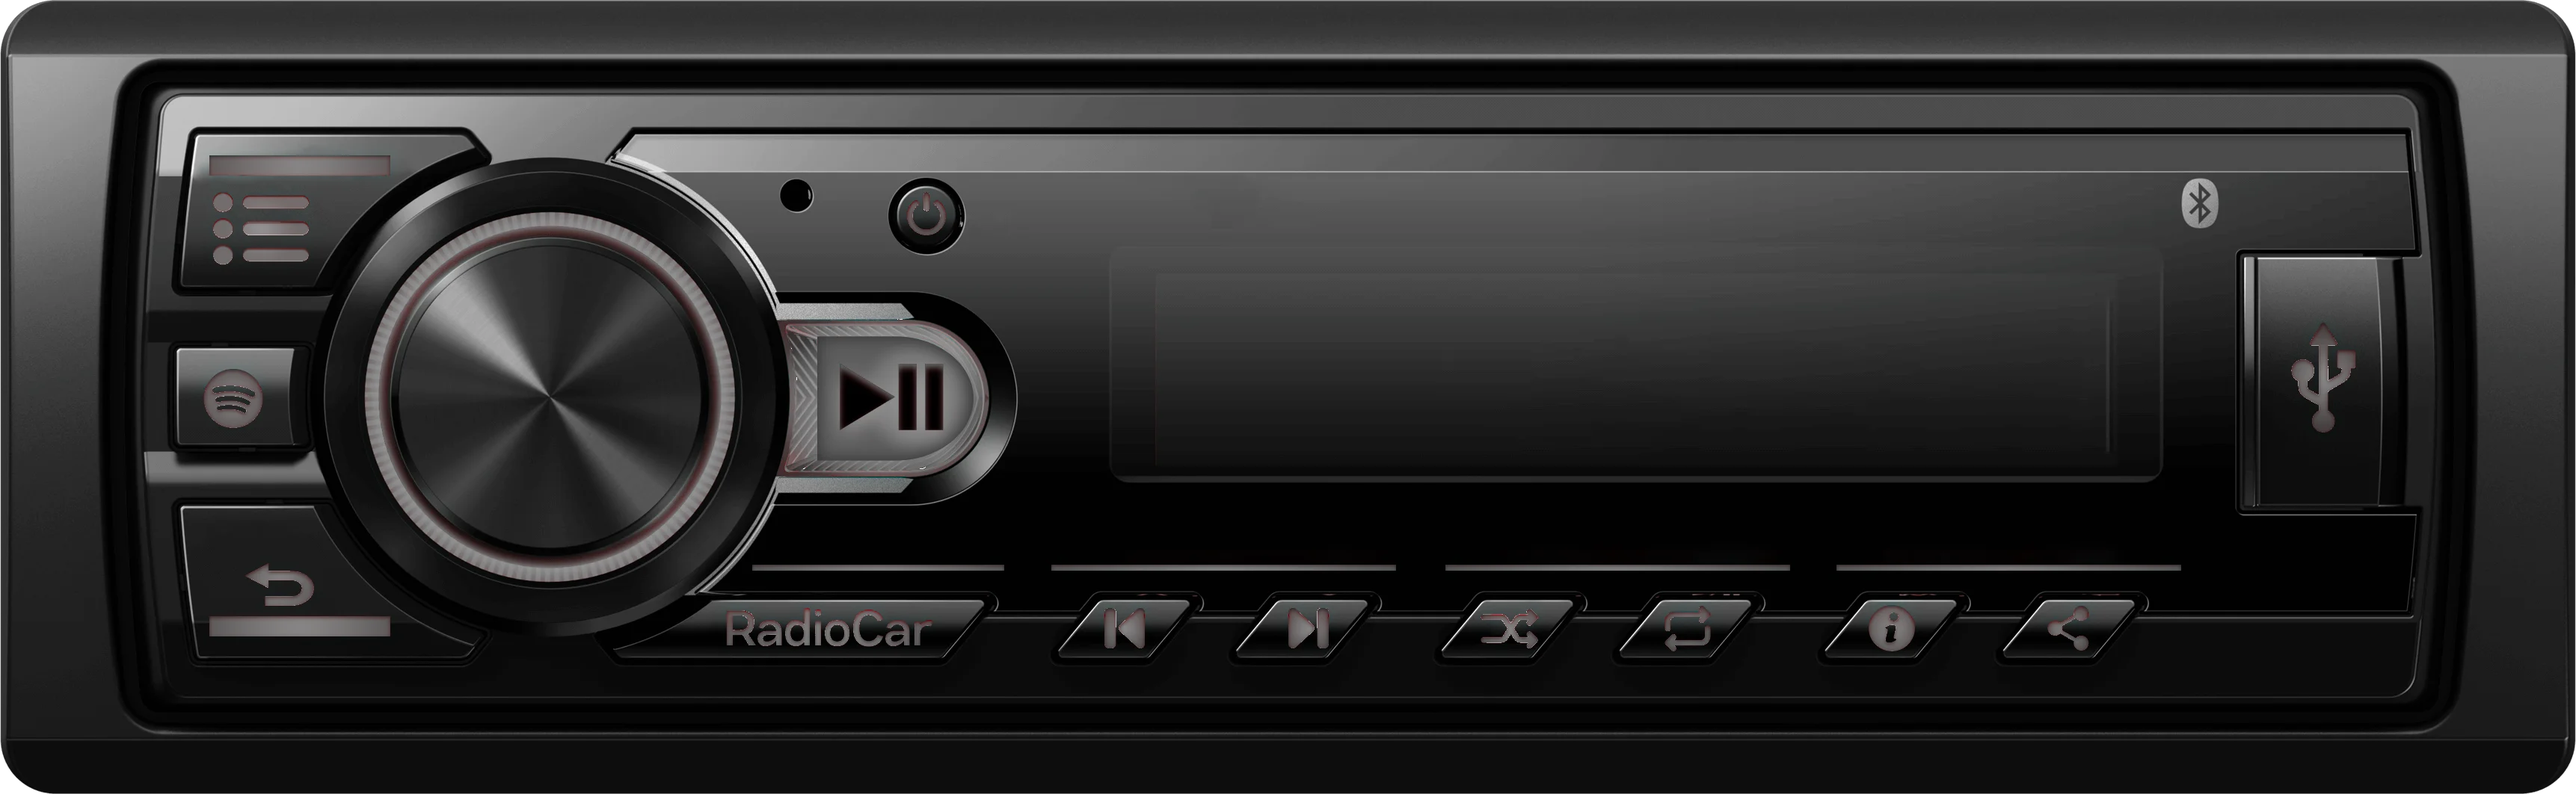
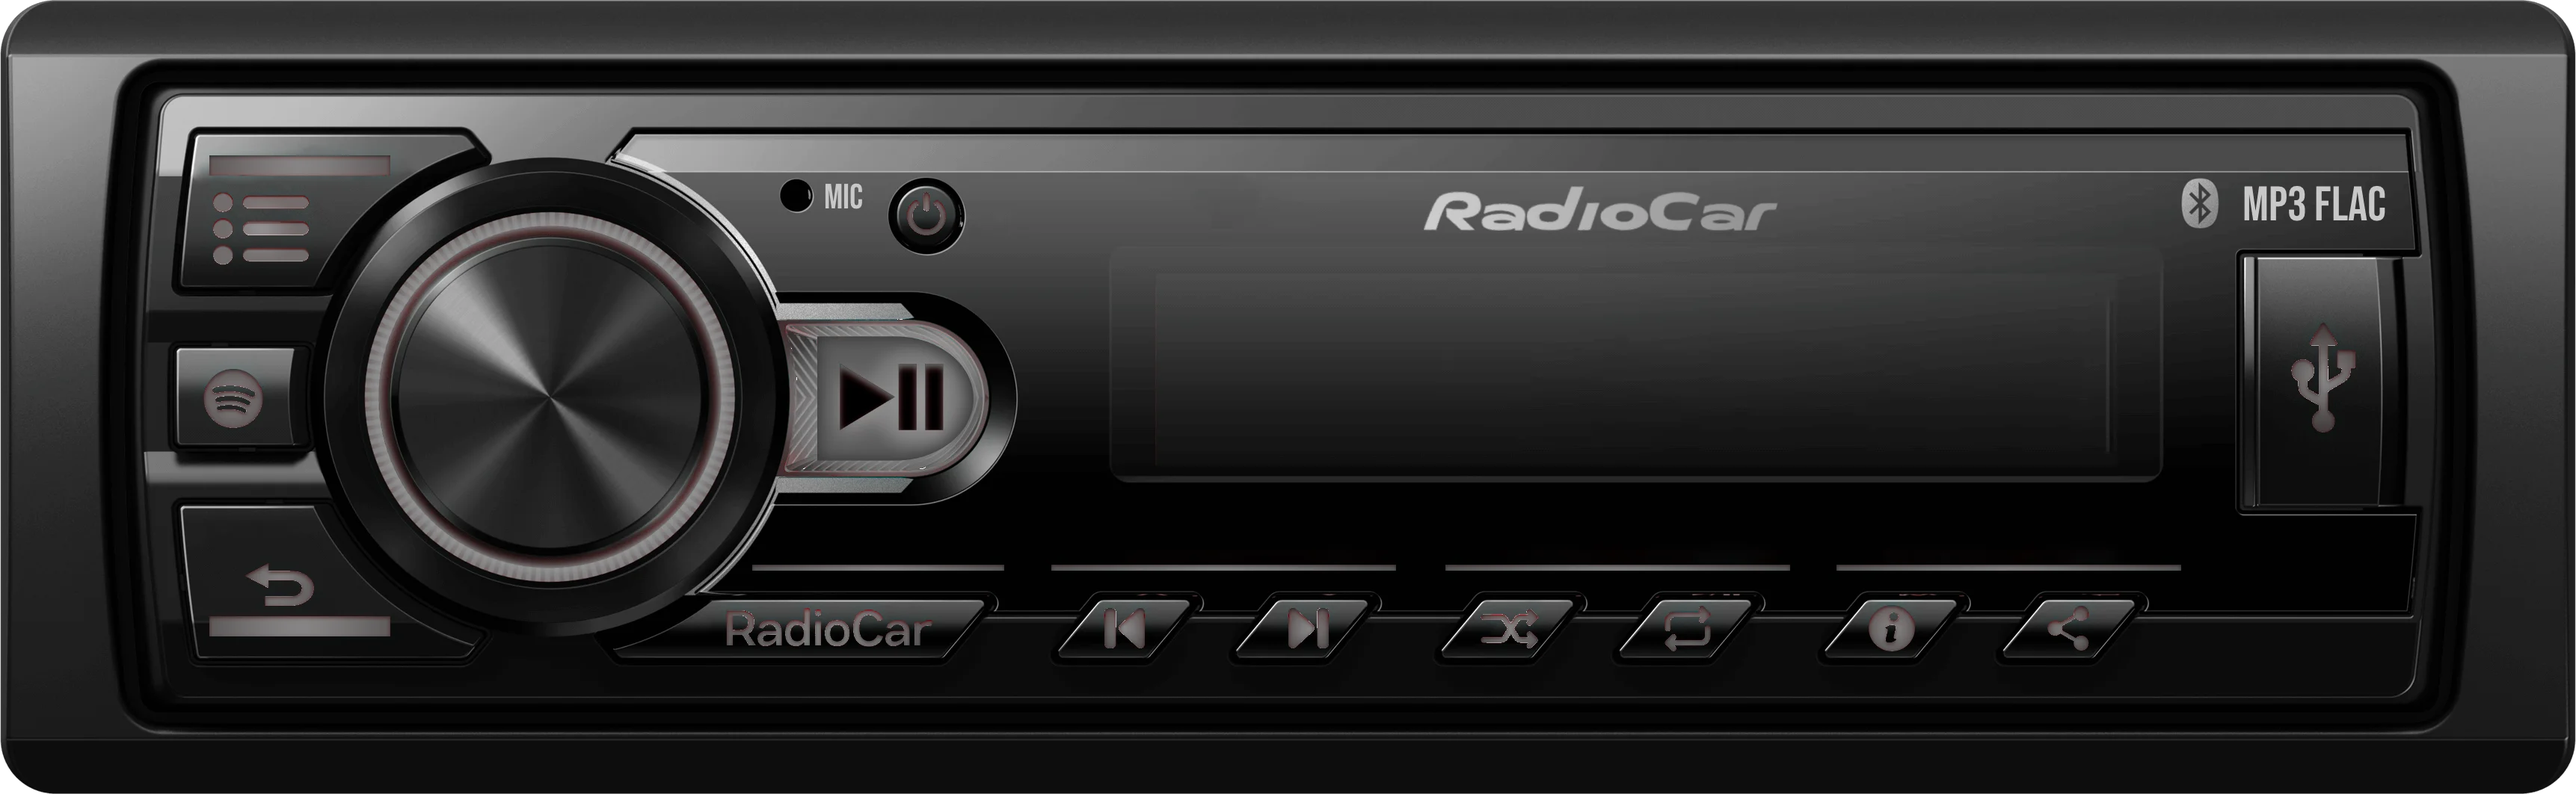
Adiciona equalizador com microfone

Changed region(s): [[0.528, 0.2484, 0.6833, 0.3104], [0.8697, 0.2173, 0.9318, 0.2794], [0.3106, 0.2173, 0.3417, 0.2794]]

diff --git a/index.html b/index.html
@@ -34,6 +34,8 @@
   </button>
   <div class="settings-popup" role="dialog" aria-label="Configurações de aparência">
     <button class="settings-theme" type="button" onclick="toggleBg()"><strong id="settingsTheme">DARK</strong></button>
+    <button class="settings-pip" id="pipButton" type="button" onclick="togglePlayerPip()">PIP</button>
+    <button class="settings-mic" id="micEqButton" type="button" onclick="toggleMicEq()">MIC EQ</button>
     <div class="settings-scale">
       <span>SIZE</span>
       <div class="scale-controls">
@@ -68,8 +70,11 @@
         <source src="assets/animação.MP4" type="video/mp4">
       </video>
       <video class="lcd-video" muted loop playsinline preload="auto" aria-hidden="true">
-        <source src="assets/anima%C3%A7%C3%A3o2.mp4" type="video/mp4">
+        <source src="assets/animação2.mp4" type="video/mp4">
       </video>
+      <div class="lcd-spectrum" aria-hidden="true">
+        <span></span><span></span><span></span><span></span><span></span><span></span><span></span><span></span><span></span><span></span><span></span><span></span><span></span><span></span><span></span><span></span><span></span><span></span><span></span><span></span>
+      </div>
       <div class="lcd-inner">
         <div class="r1">
           <div class="r1-left">
@@ -187,6 +192,35 @@ function openSpotifyControl(){if(!token){connectSpotify();return;}toggleLibrary(
 let playerScale=Number(localStorage.getItem("radiocar-scale"))||1;
 function applyPlayerScale(){document.documentElement.style.setProperty("--player-scale",playerScale);document.getElementById("scaleValue").textContent=`${Math.round(playerScale*100)}%`;}
 function adjustPlayerScale(delta){playerScale=Math.max(.75,Math.min(1.15,Math.round((playerScale+delta)*100)/100));localStorage.setItem("radiocar-scale",playerScale);applyPlayerScale();}
+let pipWindow=null,pipSyncTimer=null;
+function syncPlayerPip(){
+  if(!pipWindow||pipWindow.closed){clearInterval(pipSyncTimer);pipSyncTimer=null;pipWindow=null;document.getElementById("pipButton").textContent="PIP";return;}
+  const host=pipWindow.document.getElementById("pipHost");if(!host)return;
+  pipWindow.document.body.dataset.accent=document.body.dataset.accent||"red";
+  pipWindow.document.body.classList.toggle("light",document.body.classList.contains("light"));
+  const clone=document.getElementById("rw").cloneNode(true);clone.id="rw-pip";
+  clone.querySelectorAll("[onclick]").forEach(el=>el.removeAttribute("onclick"));
+  const actions={".o-play":togglePlay,".o-power":togglePower,".o-menu":toggleLibraryFromList,".o-spt":openSpotifyControl,".o-back":()=>{},".o-b1":prevTrack,".o-b2":nextTrack,".o-b3":toggleShuffle,".o-b4":toggleRepeat,".o-b5":showInfo,".o-b6":shareTrack,".o-usb":showUsbInfo,".o-brand":toggleScreenAnimation};
+  Object.entries(actions).forEach(([selector,action])=>clone.querySelector(selector)?.addEventListener("click",event=>{event.preventDefault();action();setTimeout(syncPlayerPip,80);}));
+  const knob=clone.querySelector(".o-knob"),range=clone.querySelector("#volRange");let drag=null;
+  knob?.addEventListener("pointerdown",event=>{drag={id:event.pointerId,y:event.clientY,value:+range.value};knob.setPointerCapture(event.pointerId);});
+  knob?.addEventListener("pointermove",event=>{if(!drag||drag.id!==event.pointerId)return;const value=Math.max(0,Math.min(100,drag.value-(event.clientY-drag.y)*1.1));onVol(value);setTimeout(syncPlayerPip,20);});
+  ["pointerup","pointercancel"].forEach(type=>knob?.addEventListener(type,()=>drag=null));
+  host.replaceChildren(clone);
+}
+async function togglePlayerPip(){
+  if(pipWindow&&!pipWindow.closed){pipWindow.close();return;}
+  if(!("documentPictureInPicture" in window)){showShareStatus("PIP INDISPONIVEL NESTE NAVEGADOR");return;}
+  try{
+    pipWindow=await window.documentPictureInPicture.requestWindow({width:860,height:265});
+    pipWindow.document.head.innerHTML='<meta charset="UTF-8"><link rel="stylesheet" href="style.css"><style>html,body{margin:0!important;min-height:0!important;background:#000!important;overflow:hidden!important}.scene{padding:0!important;gap:0!important}.settings-menu,.pl-panel{display:none!important}.radio-wrapper{width:100vw!important;height:calc(100vw * 265 / 860)!important;max-height:100vh!important;transform:none!important}.radio-wrapper::before{display:none!important}</style>';
+    pipWindow.document.body.innerHTML='<div class="scene"><div id="pipHost"></div></div>';
+    pipWindow.document.body.dataset.accent=document.body.dataset.accent||"red";
+    pipWindow.document.body.classList.toggle("light",document.body.classList.contains("light"));
+    pipWindow.addEventListener("pagehide",()=>{clearInterval(pipSyncTimer);pipSyncTimer=null;pipWindow=null;document.getElementById("pipButton").textContent="PIP";});
+    document.getElementById("pipButton").textContent="FECHAR PIP";syncPlayerPip();pipSyncTimer=setInterval(syncPlayerPip,700);
+  }catch(error){showShareStatus("NAO FOI POSSIVEL ABRIR O PIP");}
+}
 function setAccent(color){
   document.body.dataset.accent=color;
   localStorage.setItem("radiocar-accent",color);
@@ -198,22 +232,114 @@ setAccent(localStorage.getItem("radiocar-accent")||"red");
 applyPlayerScale();
 applyTheme();
 
-let nextScreenAnimation=0;
+let nextScreenVisual=0, spectrumTimer=null, spectrumLevels=[], spectrumPeaks=[];
+let micStream=null,micContext=null,micAnalyser=null,micData=null,micFrameId=null;
+function resetSpectrum(){
+  const count=document.querySelectorAll(".lcd-spectrum span").length;
+  spectrumLevels=Array.from({length:count},()=>.2+Math.random()*.18);
+  spectrumPeaks=Array.from({length:3},()=>({position:Math.random()*(count-1),velocity:(Math.random()-.5)*.24,intensity:.6+Math.random()*.4}));
+}
+function setSpectrumFrame(){
+  const bars=[...document.querySelectorAll(".lcd-spectrum span")],count=bars.length;
+  if(!count)return;
+  if(spectrumLevels.length!==count||spectrumPeaks.length!==3)resetSpectrum();
+  spectrumPeaks.forEach(peak=>{
+    peak.velocity=Math.max(-.34,Math.min(.34,peak.velocity+(Math.random()-.5)*.075));
+    peak.position+=peak.velocity;
+    if(peak.position<0||peak.position>count-1){peak.velocity*=-1;peak.position=Math.max(0,Math.min(count-1,peak.position));}
+    peak.intensity=Math.max(.56,Math.min(1,peak.intensity+(Math.random()-.5)*.13));
+  });
+  const targets=Array.from({length:count},(_,index)=>{
+    const peakLevel=Math.max(...spectrumPeaks.map(peak=>Math.max(0,peak.intensity*(1-Math.abs(index-peak.position)/(2.1+peak.intensity*2.4)))));
+    return Math.min(1,.11+peakLevel*.89);
+  });
+  targets[Math.round(spectrumPeaks[0].position)]=1;
+  bars.forEach((bar,index)=>{
+    const nearby=(targets[Math.max(0,index-1)]+targets[index]+targets[Math.min(count-1,index+1)])/3;
+    const desired=targets[index]*.7+nearby*.3;
+    spectrumLevels[index]+=(desired-spectrumLevels[index])*.42;
+    bar.style.height=`${Math.round(spectrumLevels[index]*100)}%`;
+  });
+}
+function renderMicSpectrum(){
+  if(!micAnalyser||!micData)return;
+  const bars=[...document.querySelectorAll(".lcd-spectrum span")],count=bars.length;
+  if(!count)return;
+  if(spectrumLevels.length!==count)resetSpectrum();
+  micAnalyser.getByteFrequencyData(micData);
+  const maxBin=Math.min(micData.length-1,112);
+  bars.forEach((bar,index)=>{
+    const start=Math.floor(2+(index/count)*(maxBin-2));
+    const end=Math.max(start+1,Math.floor(2+((index+1)/count)*(maxBin-2)));
+    let total=0;for(let bin=start;bin<=end;bin++)total+=micData[bin];
+    const raw=Math.min(1,(total/(end-start+1)/255)*1.6);
+    const previous=spectrumLevels[Math.max(0,index-1)]||0;
+    const next=spectrumLevels[Math.min(count-1,index+1)]||0;
+    const target=Math.max(.06,raw*.78+(previous+next)*.11);
+    spectrumLevels[index]+=(target-spectrumLevels[index])*.35;
+    bar.style.height=`${Math.round(spectrumLevels[index]*100)}%`;
+  });
+  micFrameId=requestAnimationFrame(renderMicSpectrum);
+}
+function startMicSpectrum(){cancelAnimationFrame(micFrameId);resetSpectrum();renderMicSpectrum();}
+function startSpectrum(){clearInterval(spectrumTimer);if(micAnalyser){startMicSpectrum();return;}resetSpectrum();setSpectrumFrame();spectrumTimer=setInterval(setSpectrumFrame,150);}
+function stopSpectrum(){clearInterval(spectrumTimer);spectrumTimer=null;cancelAnimationFrame(micFrameId);micFrameId=null;}
+async function toggleMicEq(){
+  const button=document.getElementById("micEqButton");
+  if(micStream){
+    stopMicEq();
+    showShareStatus("MIC EQ DESLIGADO");
+    return;
+  }
+  if(!navigator.mediaDevices?.getUserMedia){showShareStatus("MICROFONE INDISPONIVEL NESTE NAVEGADOR");return;}
+  try{
+    micStream=await navigator.mediaDevices.getUserMedia({audio:{echoCancellation:false,noiseSuppression:false,autoGainControl:false}});
+    micContext=new (window.AudioContext||window.webkitAudioContext)();
+    await micContext.resume();
+    micAnalyser=micContext.createAnalyser();micAnalyser.fftSize=256;micAnalyser.smoothingTimeConstant=.72;
+    micData=new Uint8Array(micAnalyser.frequencyBinCount);
+    micContext.createMediaStreamSource(micStream).connect(micAnalyser);
+    button.textContent="MIC EQ ON";
+    showShareStatus("MIC EQ ATIVO");
+    if(document.querySelector(".lcd")?.classList.contains("show-spectrum"))startSpectrum();
+  }catch(error){
+    stopMicEq();
+    showShareStatus("PERMISSAO DO MICROFONE NEGADA");
+  }
+}
+function stopMicEq(){
+  cancelAnimationFrame(micFrameId);micFrameId=null;
+  micStream?.getTracks().forEach(track=>track.stop());micStream=null;
+  micAnalyser?.disconnect();micAnalyser=null;micData=null;
+  micContext?.close();micContext=null;
+  document.getElementById("micEqButton").textContent="MIC EQ";
+  if(document.querySelector(".lcd")?.classList.contains("show-spectrum"))startSpectrum();
+}
 function stopScreenAnimation(){
   const screen=document.querySelector(".lcd"),videos=[...document.querySelectorAll(".lcd-video")];
   if(!screen)return;
-  screen.classList.remove("show-animation");
+  screen.classList.remove("show-animation","show-spectrum");
   videos.forEach(video=>{video.pause();video.currentTime=0;video.classList.remove("is-active");});
+  stopSpectrum();
+  nextScreenVisual=0;
 }
 function toggleScreenAnimation(){
   const screen=document.querySelector(".lcd"),videos=[...document.querySelectorAll(".lcd-video")];
-  if(!screen||!videos.length)return;
-  if(screen.classList.contains("show-animation")){stopScreenAnimation();return;}
-  const video=videos[nextScreenAnimation%videos.length];
-  nextScreenAnimation=(nextScreenAnimation+1)%videos.length;
-  videos.forEach(item=>{item.pause();item.currentTime=0;item.classList.toggle("is-active",item===video);});
-  screen.classList.add("show-animation");
-  video.play().catch(()=>{});
+  if(!screen)return;
+  const mode=nextScreenVisual%(videos.length+2);
+  nextScreenVisual=(nextScreenVisual+1)%(videos.length+2);
+  screen.classList.remove("show-animation","show-spectrum");
+  videos.forEach(item=>{item.pause();item.currentTime=0;item.classList.remove("is-active");});
+  stopSpectrum();
+  if(mode<videos.length){
+    const video=videos[mode];
+    video.classList.add("is-active");
+    screen.classList.add("show-animation");
+    video.play().catch(()=>{});
+  }else if(mode===videos.length){
+    screen.classList.add("show-spectrum");
+    startSpectrum();
+  }
 }
 
 // Knob rotation: 0-100 → -135° to +135°
@@ -398,9 +524,10 @@ async function playTrack(uri,idx){
     showAuthError("");
   }
 }
-function setDisp(title,artist,p,d){lastDisplay={title,artist,position:p,duration:d};if("mediaSession" in navigator&&window.MediaMetadata&&title!=="- - - - - - - -")navigator.mediaSession.metadata=new MediaMetadata({title,artist,album:"RadioCar"});if(screenMode!=="track")return;const el=document.getElementById("lcdTitle"),artistLine=document.getElementById("lcdArtist"),isTrack=title!=="- - - - - - - -";const marquee=isTrack?`${title}     -     ${artist}`:title;el.textContent=isTrack?marquee+"       "+marquee:marquee;el.className="title"+(isTrack?" scroll":"");artistLine.textContent=isTrack?"":artist.toUpperCase();document.getElementById("tCur").textContent=ms2t(p);document.getElementById("tTot").textContent=ms2t(d);dur=d;pos=p;updProg();}
+function lcdText(value){return String(value??"").normalize("NFD").replace(/[\u0300-\u036f]/g,"");}
+function setDisp(title,artist,p,d){lastDisplay={title,artist,position:p,duration:d};if("mediaSession" in navigator&&window.MediaMetadata&&title!=="- - - - - - - -")navigator.mediaSession.metadata=new MediaMetadata({title,artist,album:"RadioCar"});if(screenMode!=="track")return;const el=document.getElementById("lcdTitle"),artistLine=document.getElementById("lcdArtist"),isTrack=title!=="- - - - - - - -",lcdTitle=lcdText(title),lcdArtist=lcdText(artist);const marquee=isTrack?`${lcdTitle}     -     ${lcdArtist}`:lcdTitle;el.textContent=isTrack?marquee+"       "+marquee:marquee;el.className="title"+(isTrack?" scroll":"");artistLine.textContent=isTrack?"":lcdArtist.toUpperCase();document.getElementById("tCur").textContent=ms2t(p);document.getElementById("tTot").textContent=ms2t(d);dur=d;pos=p;updProg();}
 function updProg(){if(!dur)return;document.getElementById("progFill").style.width=(pos/dur*100)+"%";}
-function setStatus(on,txt){document.getElementById("led").className="led"+(on?"":" off");if("mediaSession" in navigator)navigator.mediaSession.playbackState=on?"playing":"paused";if(screenMode==="track")document.getElementById("lcdLbl").textContent=txt;isPlaying=on;}
+function setStatus(on,txt){document.getElementById("led").className="led"+(on?"":" off");document.querySelector(".lcd")?.classList.toggle("is-playing",Boolean(on));if("mediaSession" in navigator)navigator.mediaSession.playbackState=on?"playing":"paused";if(screenMode==="track")document.getElementById("lcdLbl").textContent=txt;isPlaying=on;}
 function updIco(){const sh=document.getElementById("iShuffle"),rp=document.getElementById("iRepeat");sh.className="ico lcd-mode-icon"+(shuffle?" on":"");rp.className="ico lcd-mode-icon"+(repeat?" on":"");sh.setAttribute("aria-label",shuffle?"Shuffle ativado":"Shuffle desativado");rp.setAttribute("aria-label",repeat?"Repetição ativada":"Repetição desativada");}
 function hiTrack(uri){const found=tracks.findIndex(track=>track.uri===uri);if(found>=0)activeTrackIndex=found;document.querySelectorAll(".trow").forEach(el=>el.classList.toggle("on",el.dataset.uri===uri));}
 function checkTrackCompletion(paused,current,duration){
@@ -409,7 +536,7 @@ function checkTrackCompletion(paused,current,duration){
   setTimeout(async()=>{try{if(tracks.length&&activeTrackIndex>=0){let next=shuffle?Math.floor(Math.random()*tracks.length):(activeTrackIndex+1)%tracks.length;if(tracks.length>1&&next===activeTrackIndex)next=(next+1)%tracks.length;await playTrack(tracks[next].uri,next);}else if(player){await player.nextTrack();}else{await api("/me/player/next",{method:"POST"});}}finally{setTimeout(()=>autoAdvancePending=false,900);}},220);
 }
 async function getState(){if(!token)return null;const r=await api("/me/player");if(!r||r.status===204||!r.ok)return null;return r.json();}
-function startPoll(){clearInterval(poll);poll=setInterval(async()=>{if(player){if(isPlaying){pos+=1000;updProg();document.getElementById("tCur").textContent=ms2t(pos);}return;}const s=await getState();if(!s||!s.item)return;isPlaying=s.is_playing;dur=s.item.duration_ms;pos=s.progress_ms;setDisp(s.item.name,s.item.artists.map(a=>a.name).join(" / "),s.progress_ms,s.item.duration_ms);setStatus(s.is_playing,s.is_playing?"PLAYING":"PAUSE");hiTrack(s.item.uri);shuffle=s.shuffle_state;updIco();checkTrackCompletion(!s.is_playing,s.progress_ms,s.item.duration_ms);if(isPlaying)pos+=1000;},1000);}
+function startPoll(){clearInterval(poll);poll=setInterval(async()=>{if(player){if(isPlaying){pos+=1000;if(!plId&&dur&&pos>=dur){pos=dur;updProg();document.getElementById("tCur").textContent=ms2t(pos);checkTrackCompletion(true,dur,dur);return;}updProg();document.getElementById("tCur").textContent=ms2t(pos);}return;}const s=await getState();if(!s||!s.item)return;isPlaying=s.is_playing;dur=s.item.duration_ms;pos=s.progress_ms;setDisp(s.item.name,s.item.artists.map(a=>a.name).join(" / "),s.progress_ms,s.item.duration_ms);setStatus(s.is_playing,s.is_playing?"PLAYING":"PAUSE");hiTrack(s.item.uri);shuffle=s.shuffle_state;updIco();checkTrackCompletion(!s.is_playing,s.progress_ms,s.item.duration_ms);if(isPlaying)pos+=1000;},1000);}
 function ms2t(ms){if(!ms)return"0:00";const s=Math.floor(ms/1000);return`${Math.floor(s/60)}:${String(s%60).padStart(2,"0")}`;}
 document.getElementById("knobOvr").addEventListener("wheel",e=>{e.preventDefault();const inp=document.getElementById("volRange");inp.value=Math.max(0,Math.min(100,+inp.value-Math.sign(e.deltaY)*6));onVol(inp.value);},{passive:false});
 const knob=document.getElementById("knobOvr"),volumeInput=document.getElementById("volRange");

diff --git a/style.css b/style.css
@@ -88,7 +88,13 @@ body[data-accent="cyan"] { --accent:#20e5e6; --accent-dim:#258f91; --accent-rgb:
 }
 .lcd-video { position:absolute; inset:0; width:100%; height:100%; object-fit:cover; opacity:0; filter:saturate(.72) contrast(1.18) brightness(.7); mix-blend-mode:screen; pointer-events:none; z-index:1; transition:opacity .35s ease,filter .35s ease; }
 .lcd.show-animation .lcd-video.is-active { opacity:.92; }
-.lcd.show-animation .lcd-inner { opacity:0; visibility:hidden; }
+.lcd-spectrum { position:absolute; inset:0; z-index:2; isolation:isolate; display:flex; align-items:flex-end; gap:.34cqw; padding:.7cqw 1.15cqw .65cqw; overflow:hidden; opacity:0; visibility:hidden; pointer-events:none; background:linear-gradient(180deg,rgba(0,0,0,.16),rgba(0,0,0,.64)),repeating-linear-gradient(0deg,transparent 0 .48cqw,rgba(var(--accent-rgb),.09) .5cqw .56cqw); box-shadow:inset 0 0 1.5cqw rgba(0,0,0,.9); transition:opacity .24s ease,visibility .24s step-end; }
+.lcd-spectrum::before { content:""; position:absolute; z-index:3; inset:0; pointer-events:none; background:linear-gradient(112deg,rgba(255,255,255,.1),transparent 16% 68%,rgba(255,255,255,.025)),repeating-linear-gradient(0deg,rgba(0,0,0,.16) 0 1px,transparent 1px 3px); opacity:.72; }
+.lcd-spectrum::after { content:""; position:absolute; z-index:0; inset:0; background:radial-gradient(ellipse at 50% 100%,rgba(var(--accent-rgb),.25),transparent 66%); mix-blend-mode:screen; }
+.lcd-spectrum span { position:relative; z-index:1; flex:1 1 0; min-width:0; height:32%; border-radius:.16cqw .16cqw 0 0; background:repeating-linear-gradient(to top,var(--accent) 0 .26cqw,rgba(var(--accent-rgb),.34) .27cqw .37cqw,transparent .38cqw .54cqw),linear-gradient(to top,rgba(var(--accent-rgb),.25),var(--accent)); box-shadow:0 0 .4cqw rgba(var(--accent-rgb),.52),0 0 1cqw rgba(var(--accent-rgb),.14); transition:height .2s cubic-bezier(.22,.65,.26,1); }
+.lcd.show-spectrum { background:#080303; }
+.lcd.show-spectrum .lcd-spectrum { opacity:1; visibility:visible; }
+.lcd.show-animation .lcd-inner, .lcd.show-spectrum .lcd-inner { opacity:0; visibility:hidden; }
 .lcd-inner { transition:opacity .22s ease,visibility .22s step-end; }
 /* LCD typography and rows scale with the physical radio, avoiding cropped lines on narrow windows. */
 .lcd { padding:.58cqw 1.05cqw .46cqw; }
@@ -206,6 +212,8 @@ body[data-accent="cyan"] { --accent:#20e5e6; --accent-dim:#258f91; --accent-rgb:
 .settings-popup { position:absolute; left:0; bottom:44px; width:154px; padding:9px; border:1px solid #3d3d3d; border-radius:8px; background:linear-gradient(145deg,rgba(48,48,48,.98),rgba(14,14,14,.98)); box-shadow:inset 0 1px rgba(255,255,255,.15),0 8px 22px rgba(0,0,0,.55); opacity:0; visibility:hidden; transform:translateY(5px) scale(.96); transform-origin:left bottom; transition:opacity .16s ease,transform .16s ease,visibility .16s step-end; }
 .settings-menu.open .settings-popup { opacity:1; visibility:visible; transform:translateY(0) scale(1); transition:opacity .16s ease,transform .16s ease; }
 .settings-theme { width:100%; display:flex; align-items:center; justify-content:center; border:1px solid #515151; border-radius:5px; background:linear-gradient(#3d3d3d,#202020); color:#aaa; padding:6px 7px; font:inherit; font-size:10px; letter-spacing:1.2px; cursor:pointer; box-shadow:inset 0 1px rgba(255,255,255,.12),inset 0 -1px rgba(0,0,0,.6); }
+.settings-pip,.settings-mic { width:100%; margin-top:7px; border:1px solid #515151; border-radius:5px; background:linear-gradient(#3d3d3d,#202020); color:#e2e2e2; padding:6px 7px; font:10px "Share Tech Mono",monospace; letter-spacing:1.2px; cursor:pointer; box-shadow:inset 0 1px rgba(255,255,255,.12),inset 0 -1px rgba(0,0,0,.6); }
+.settings-pip:active,.settings-mic:active { transform:translateY(1px); box-shadow:inset 0 1px 4px #000; }
 .settings-theme:active { transform:translateY(1px); box-shadow:inset 0 1px 4px #000; }
 .settings-theme strong { color:#e2e2e2; font:inherit; }
 .settings-colors { display:flex; align-items:center; justify-content:space-between; margin-top:9px; color:#888; font-size:10px; letter-spacing:1.2px; }
@@ -213,6 +221,7 @@ body[data-accent="cyan"] { --accent:#20e5e6; --accent-dim:#258f91; --accent-rgb:
 .settings-dots .accent-dot { width:14px; height:14px; flex-basis:14px; }
 body.light .settings-popup { background:linear-gradient(145deg,rgba(255,255,255,.98),rgba(220,220,220,.98)); border-color:#aaa; }
 body.light .settings-theme { background:linear-gradient(#fff,#ddd); border-color:#aaa; color:#555; }
+body.light .settings-pip,body.light .settings-mic { background:linear-gradient(#fff,#ddd); border-color:#aaa; color:#444; }
 body.light .settings-theme strong,body.light .settings-colors { color:#444; }
 /* Connection now lives beside the gear, leaving no duplicate call-to-action below the radio. */
 .pl-panel.auth-mode { display:none; }
